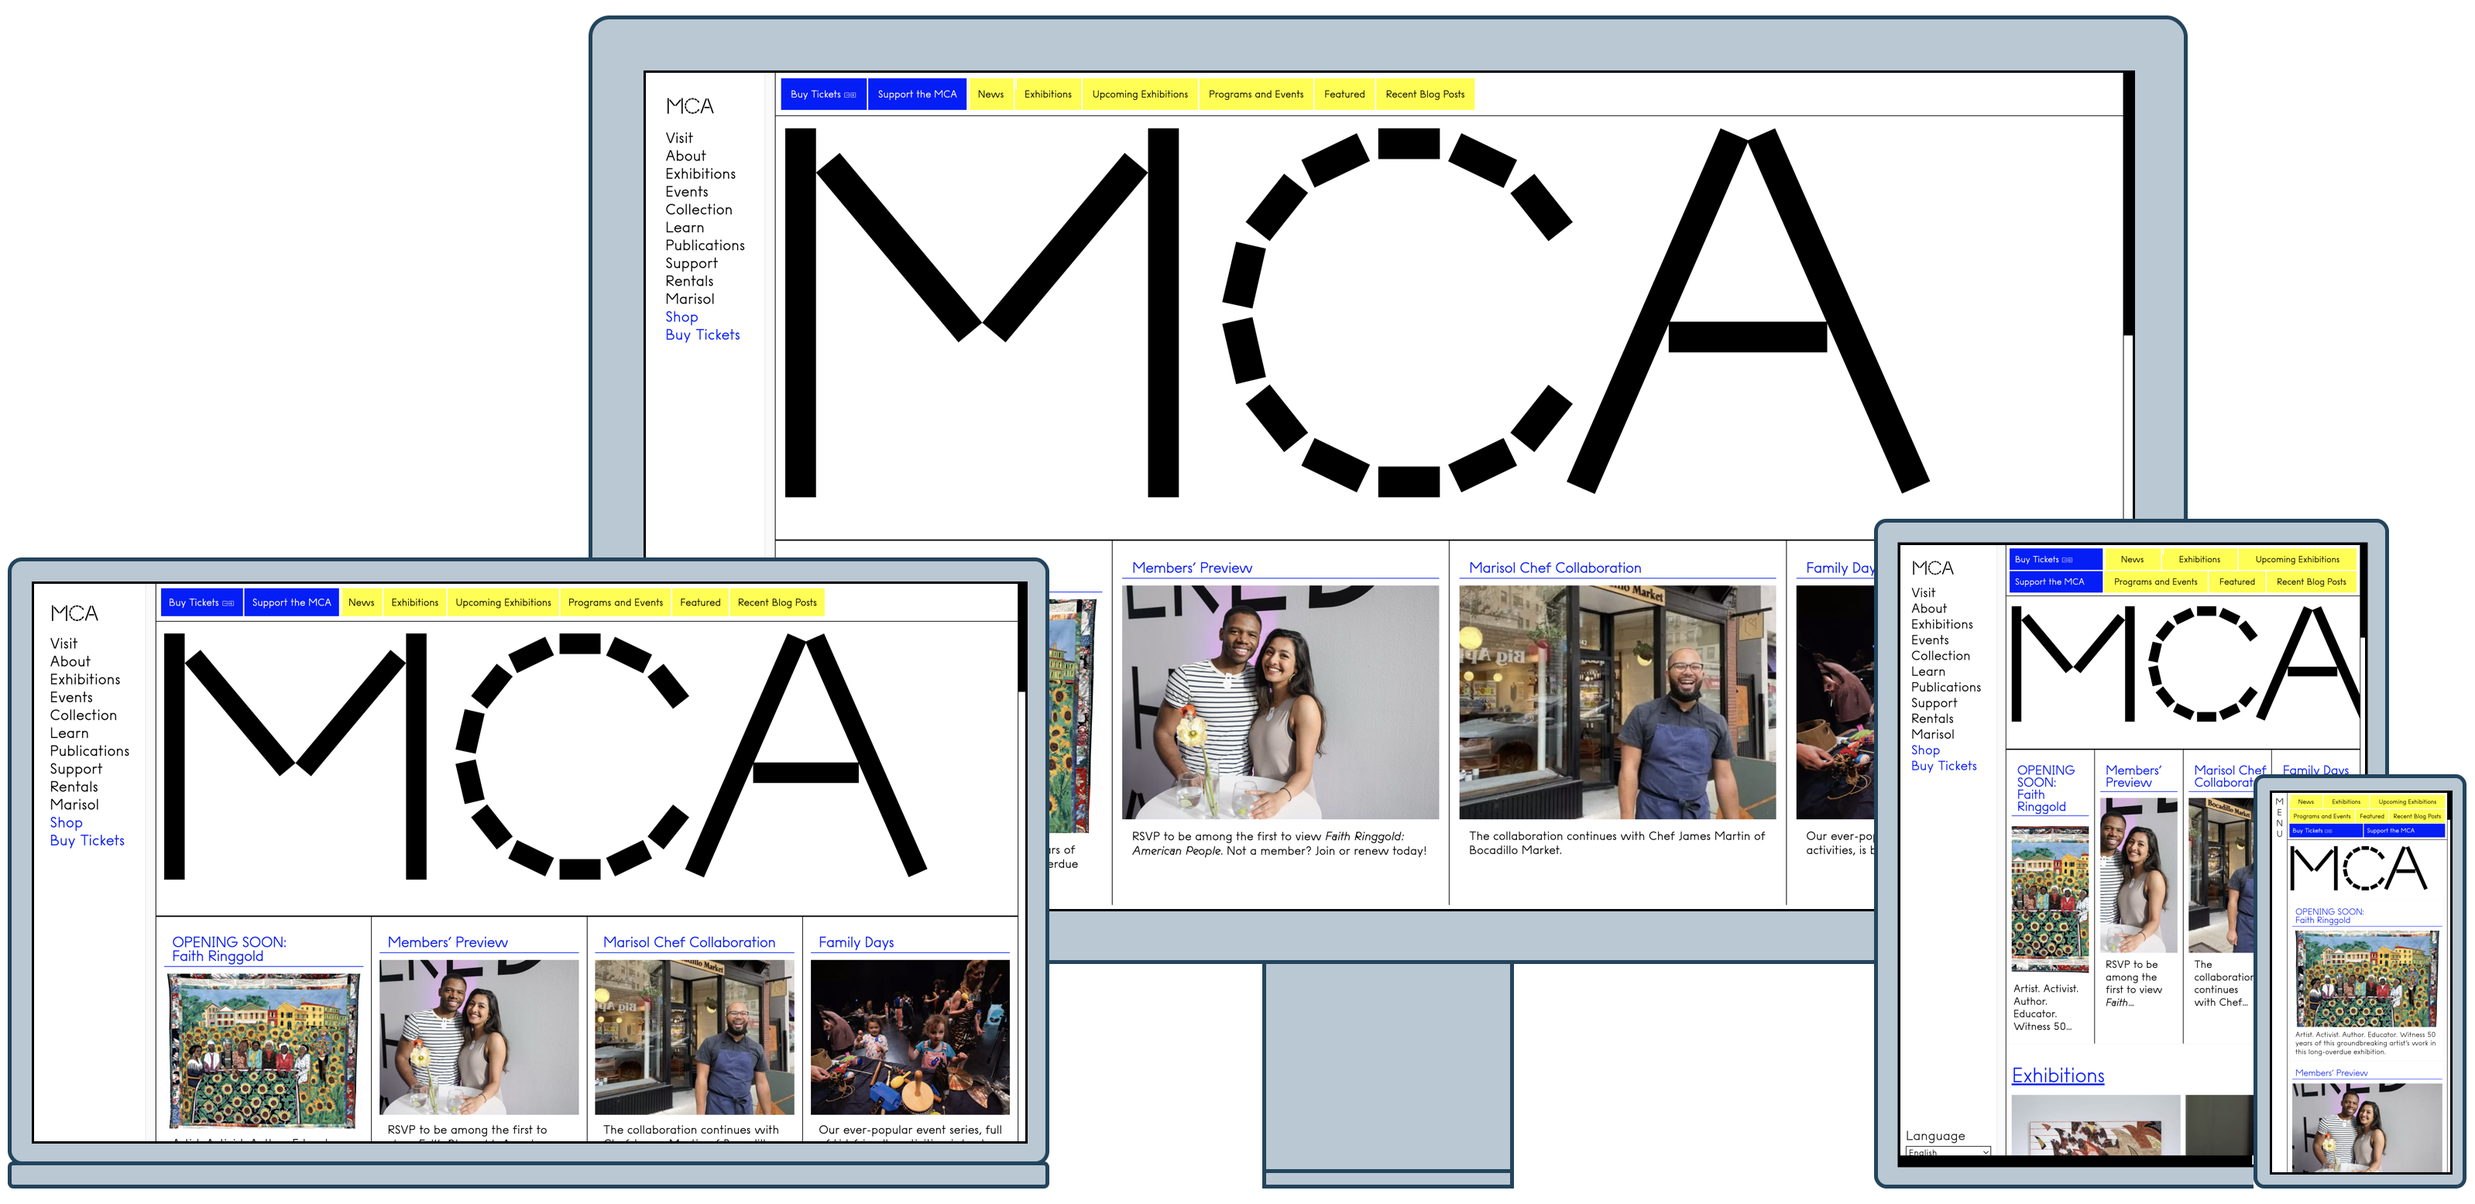
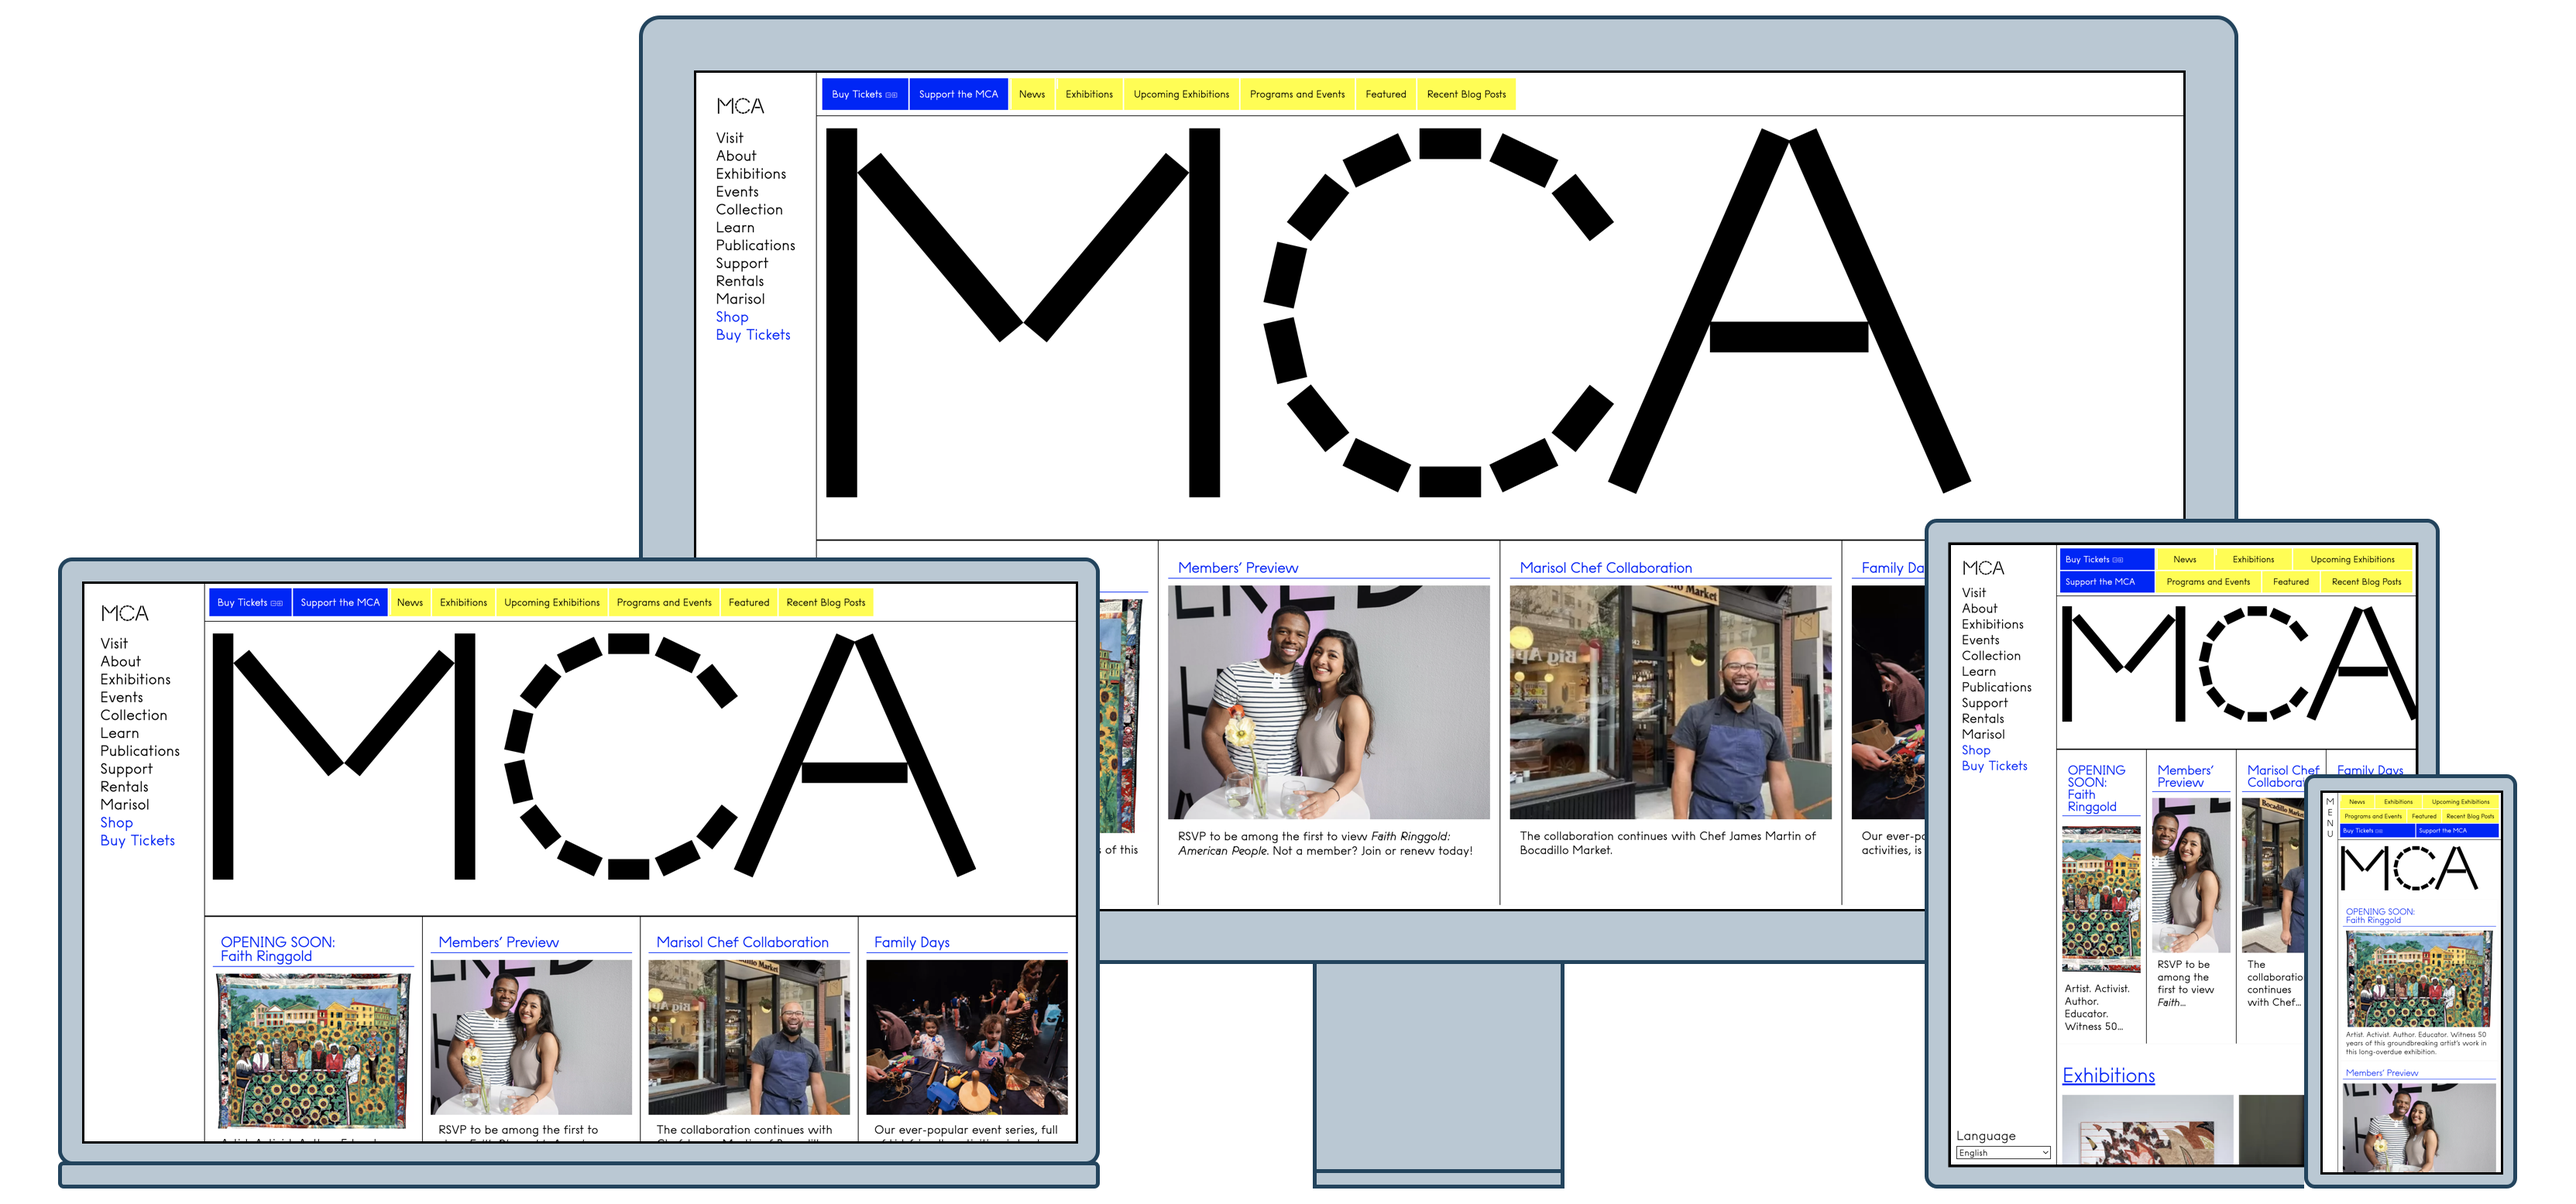
Update README.md

diff --git a/README.md b/README.md
@@ -139,3 +139,5 @@ New features development is ongoing.
 ## Screenshots
 
 ![Portfoliofy](/images/portfoliofy2.png)
+
+![Portfoliofy](/images/portfoliofy3.png)
